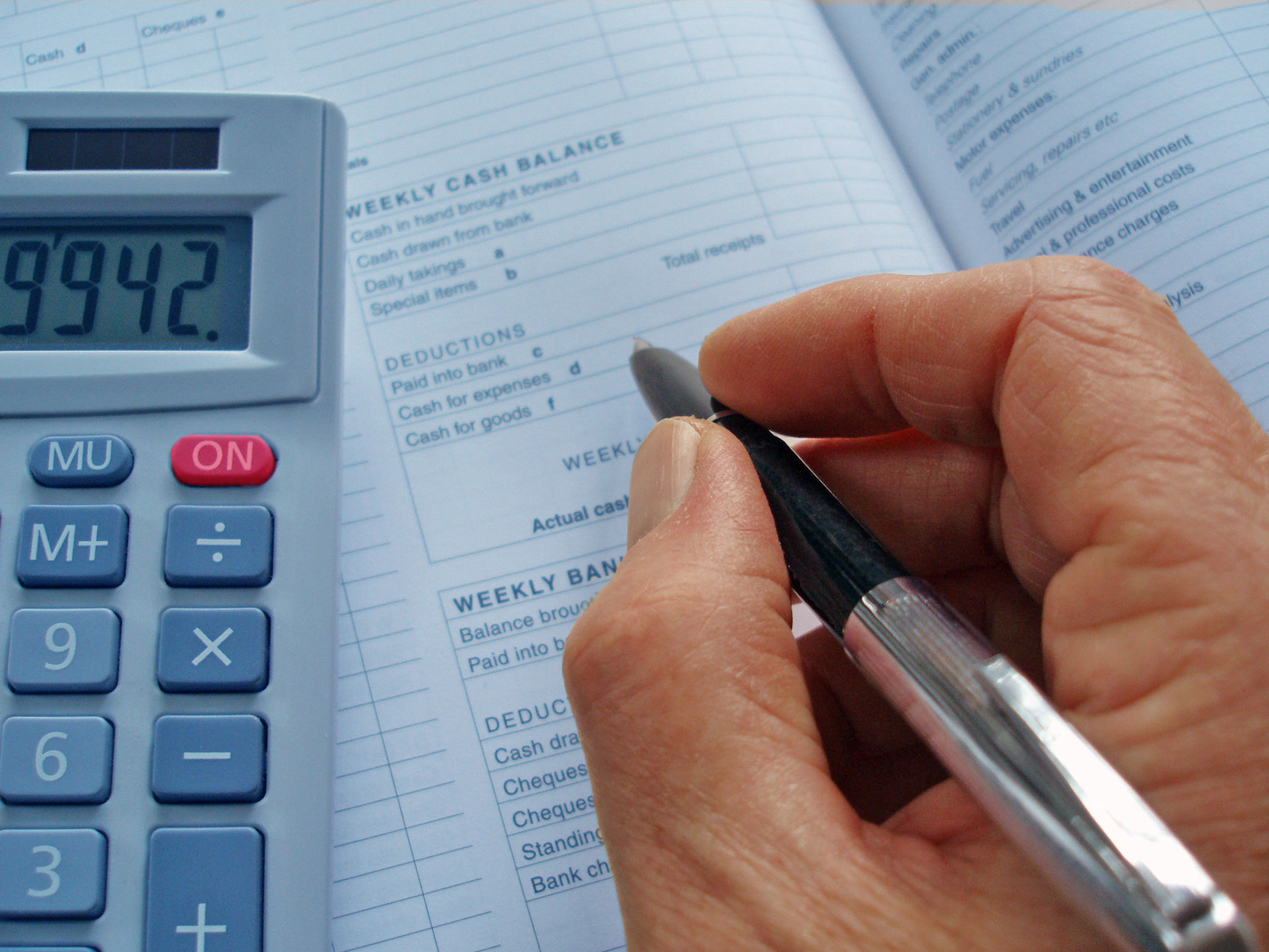
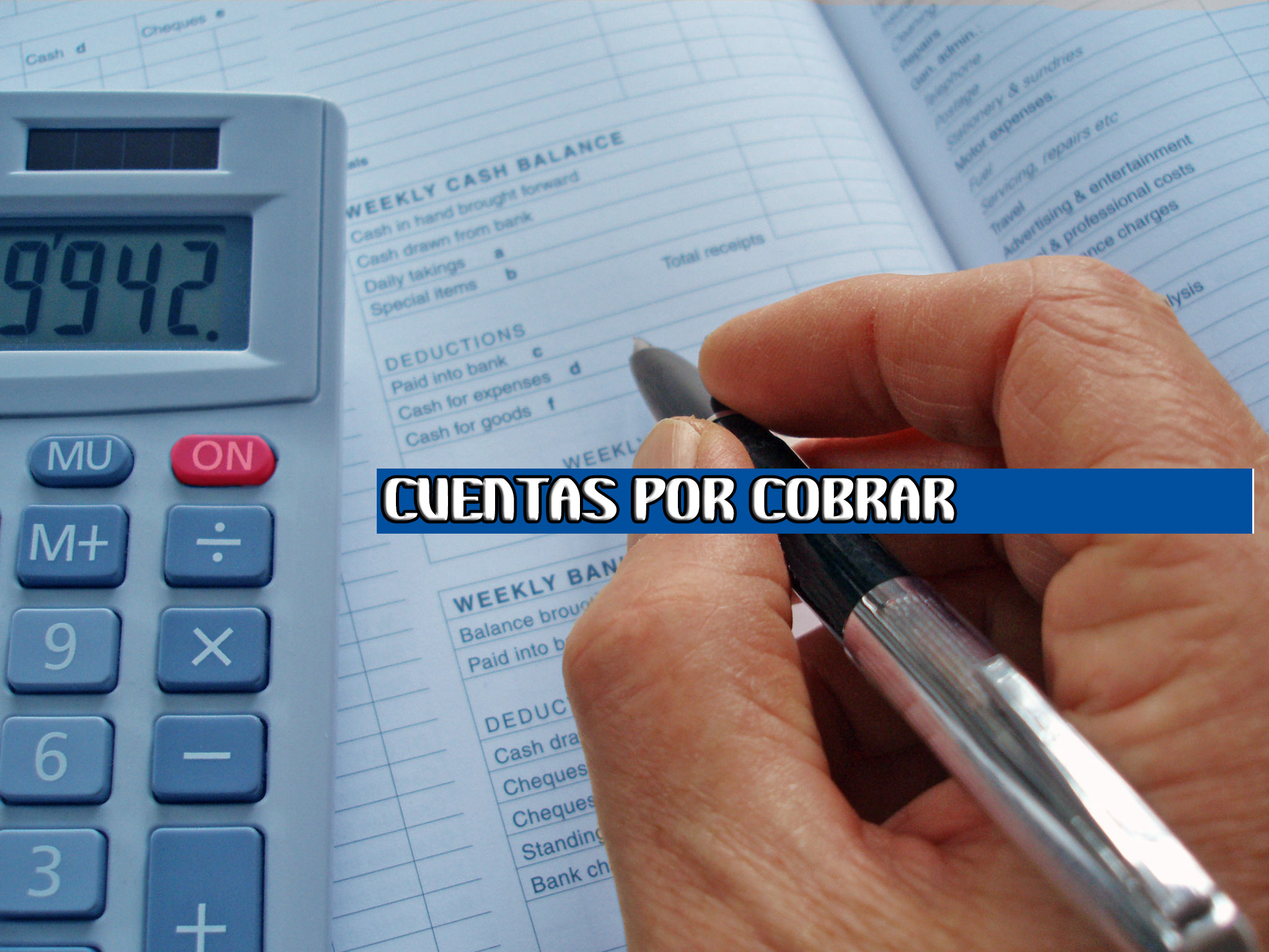
Fondo de CPC

Changed region(s): [[0.2812, 0.4688, 1.0, 0.5625]]

diff --git a/src/CPC/ImagenFondo.java b/src/CPC/ImagenFondo.java
@@ -1,0 +1,52 @@
+/*
+ * To change this license header, choose License Headers in Project Properties.
+ * To change this template file, choose Tools | Templates
+ * and open the template in the editor.
+ */
+package CPC;
+
+import java.awt.Component;
+import java.awt.Graphics;
+import java.awt.Insets;
+import java.awt.image.BufferedImage;
+import java.io.IOException;
+import java.net.URL;
+import java.util.logging.Level;
+import java.util.logging.Logger;
+import javax.imageio.ImageIO;
+import javax.swing.border.Border;
+/**
+ *
+ * @author Sayli
+ */
+public class ImagenFondo implements Border {
+    
+    BufferedImage fondo;
+    public ImagenFondo(){    
+        try {       
+            //se obtiene la imagen            
+            URL url = new URL(getClass().getResource("/cpc/banner_principal.jpg").toString());
+            fondo = ImageIO.read(url);    
+            
+        } catch (IOException ex) {
+            Logger.getLogger(ImagenFondo.class.getName()).log(Level.SEVERE, null, ex);
+        }      
+    }
+    // se sobreescriben metodos propios de Border
+    @Override
+    public void paintBorder(Component c, Graphics g, int x, int y, int width, int height){     
+        //se dibuja la imagen de fondo en el centro del contenedor
+        //cada que se redimensione el contenedor, la imagen automaticamente se posiciona en el centro
+        g.drawImage(fondo, (x + (width - fondo.getWidth())/2),(y + (height - fondo.getHeight())/2), null);
+    }
+
+    @Override
+    public Insets getBorderInsets(Component c){
+    return new Insets(0,0,0,0);
+    }
+
+    @Override
+    public boolean isBorderOpaque(){
+    return true;
+    }
+}

diff --git a/src/CPC/CPCInicio.java b/src/CPC/CPCInicio.java
@@ -21,6 +21,7 @@ public class CPCInicio extends javax.swing.JFrame {
     public CPCInicio() {
         initComponents();
         this.setExtendedState(MAXIMIZED_BOTH);
+        desktopPane.setBorder(new ImagenFondo());
     }
 
     /**
